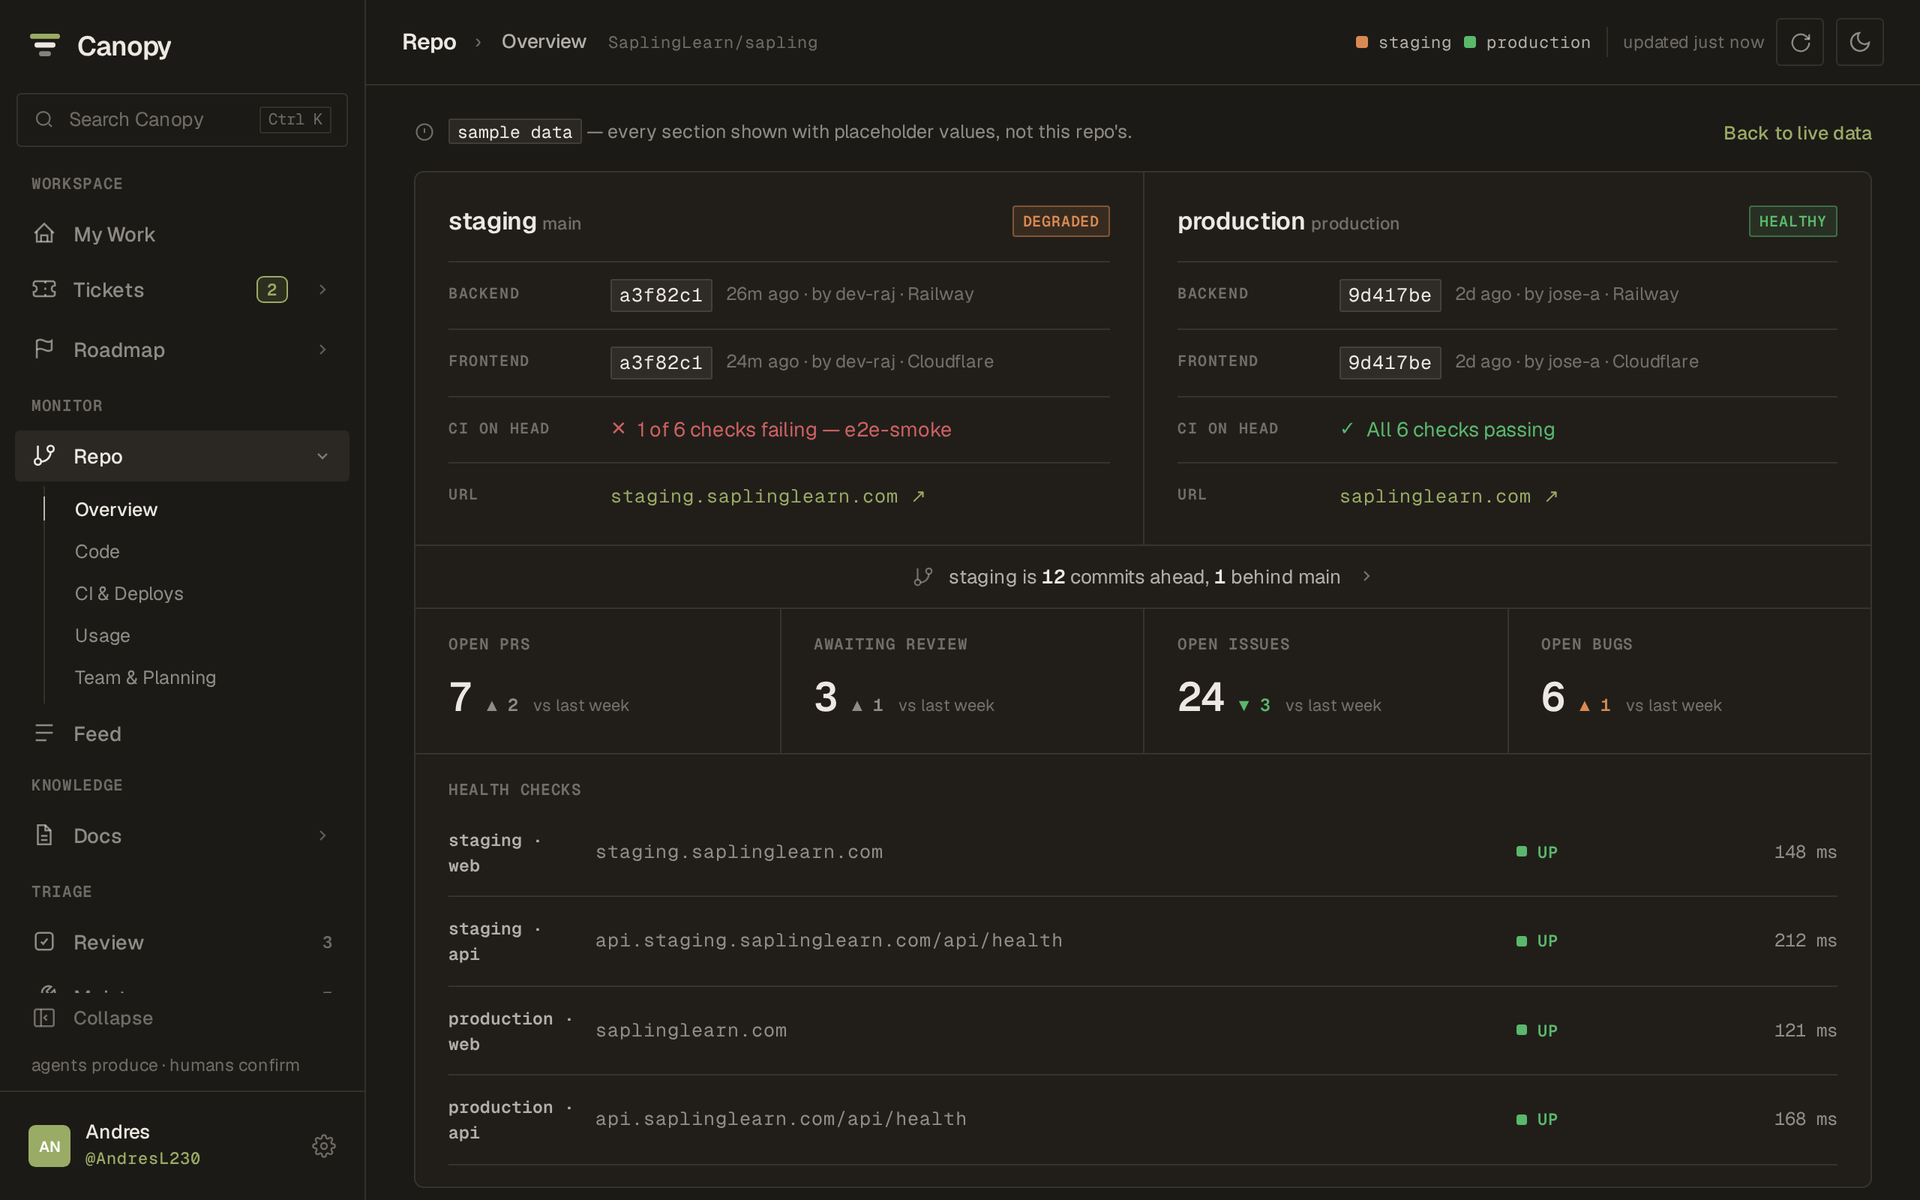
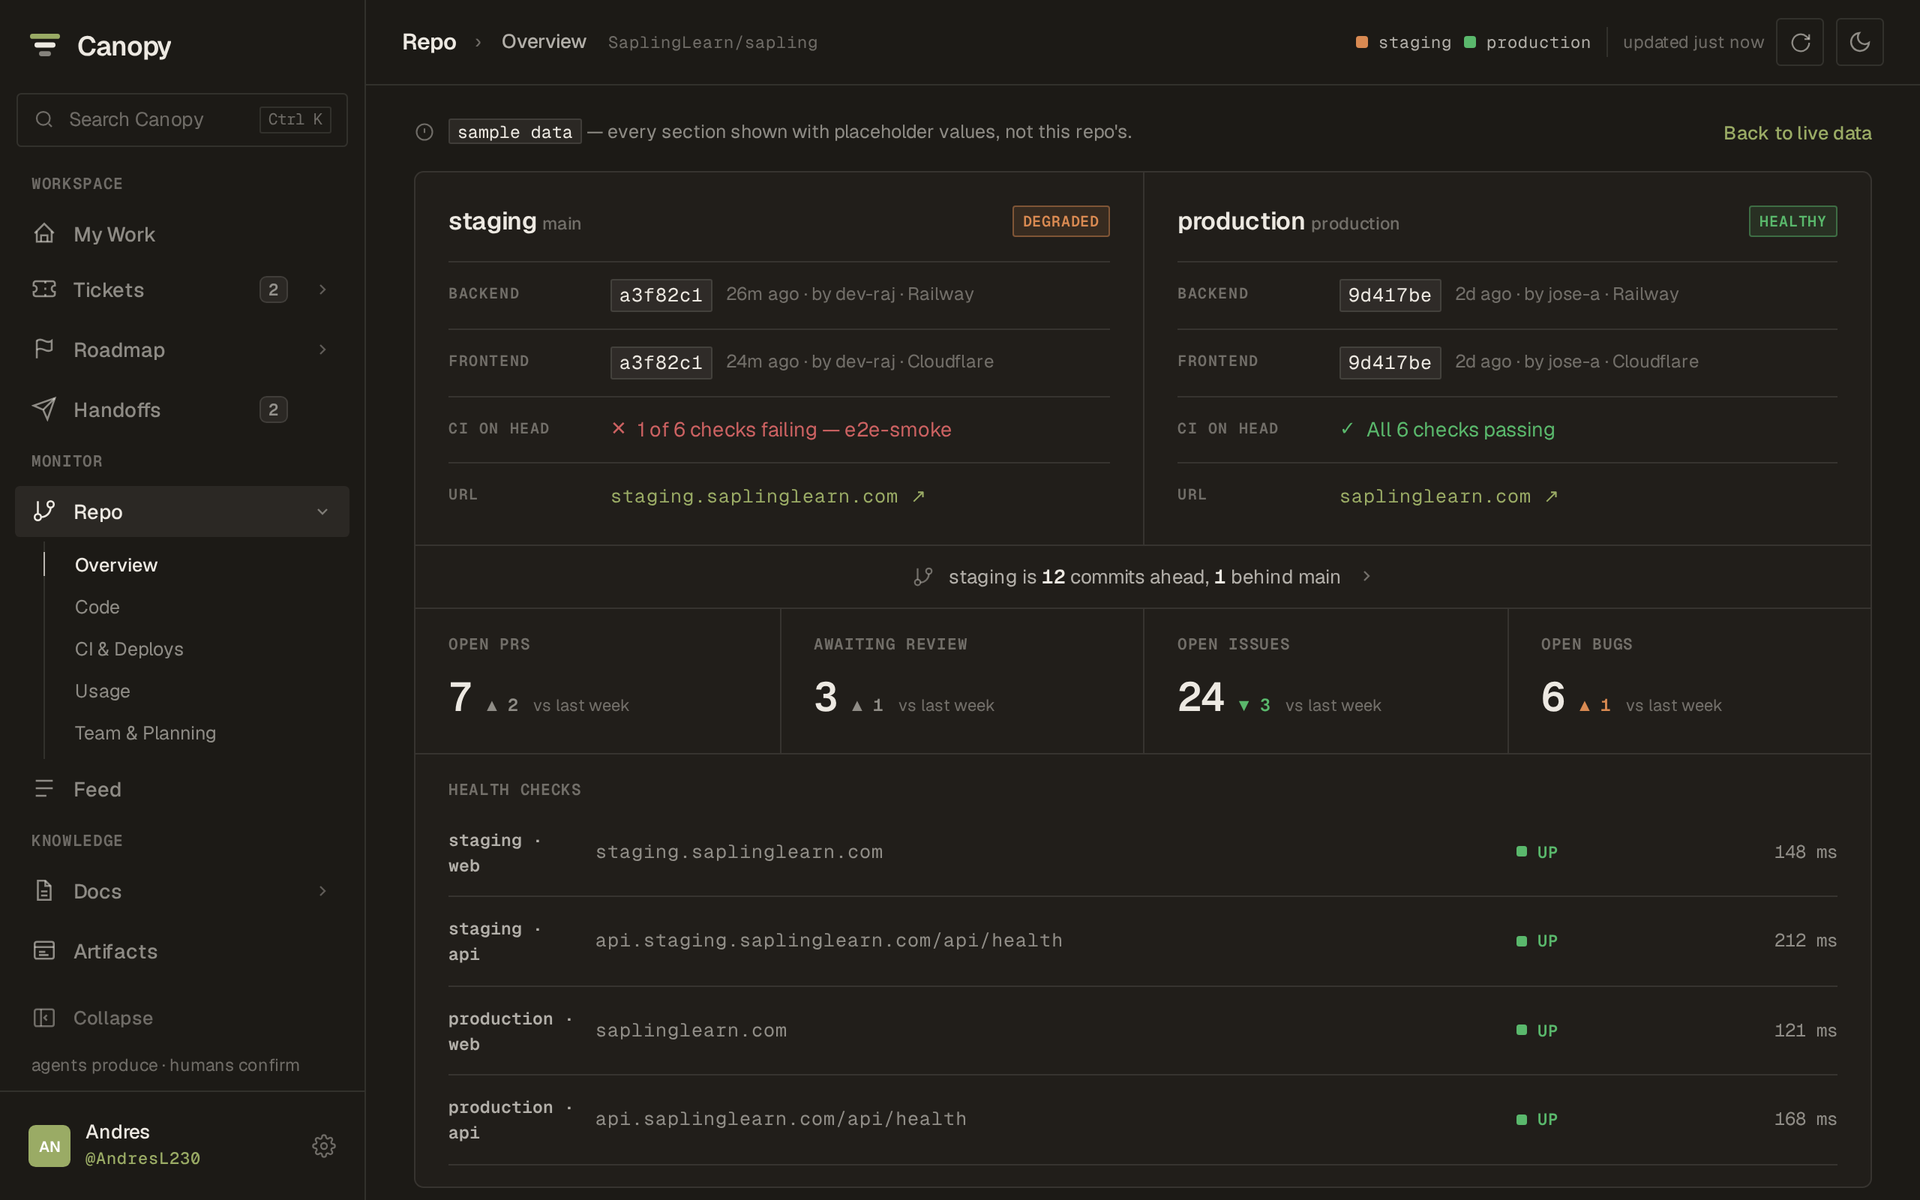
Canopy entry: handoffs, artifacts, R2, current counts
Adds the features that shipped since the last refresh (session handoffs,
versioned artifacts), R2 in the stack, the gate claim narrowed to what it
covers, current commit and test counts, and a refreshed gallery with an
artifact in place of the search shot (whose caption overstated what
people see).

diff --git a/src/data/projects.ts b/src/data/projects.ts
@@ -66,28 +66,28 @@ export const projects: Project[] = [
     year: '2026',
     award: null,
     tagline: 'Agents can write to the team memory. Only a human can publish it.',
-    desc: 'Shared memory for a team building with coding agents: docs, tickets, roadmap, and repo health in one Cloudflare Worker.',
+    desc: 'Shared memory for a team building with coding agents: docs, tickets, handoffs, artifacts, and repo health in one Cloudflare Worker.',
     img: '/images/canopy.png',
     cover: '/images/canopy.png',
     gallery: [
       { src: '/images/canopy_repo.png', caption: 'Canopy · repo dashboard (sample data)' },
       { src: '/images/canopy_sprint.png', caption: 'Canopy · a sprint and its tickets' },
       { src: '/images/canopy_review.png', caption: 'Canopy · an agent’s staged edit awaiting review' },
-      { src: '/images/canopy_search.png', caption: 'Canopy · search, every hit flagged live or staged' },
+      { src: '/images/canopy_artifact.png', caption: 'Canopy · a versioned artifact, ratified by a person' },
     ],
-    tech: ['TypeScript', 'Cloudflare Workers', 'D1', 'Hono', 'Model Context Protocol', 'SQLite FTS5'],
+    tech: ['TypeScript', 'Cloudflare Workers', 'D1', 'R2', 'Hono', 'Model Context Protocol'],
     url: 'https://github.com/SaplingLearn/canopy',
     live: 'https://canopy.saplinglearn.com',
-    role: 'solo · 479 of 496 commits',
+    role: 'solo · 513 of 530 commits',
     problem:
       'Every agent session started from zero, re-deriving decisions buried in old PRs. Letting agents write to a shared store fixes that, but nothing an LLM writes should publish unreviewed.',
     solution:
-      'Canopy is that store. Agents read and propose over MCP; every write lands staged until a human approves it. Around it: a ticket queue, sprints, a roadmap, and a repo dashboard.',
+      'Canopy is that store. Agents read and propose over MCP; every write lands staged until a human approves it. Around it: tickets and sprints, session handoffs, versioned artifacts, and a repo dashboard.',
     deepDive: [
-      'One Worker serves the API, an MCP endpoint, a GitHub webhook, and the SPA. D1 is the only datastore.',
-      'Every agent write passes one gate: a replay ledger, content-hash dedupe, and a line diff that types each change. Approving is never an MCP tool.',
+      'One Worker serves the API, a stateless MCP endpoint on the official SDK, a GitHub webhook, and the SPA. D1 holds the data, R2 the artifact files.',
+      'Every agent-proposed doc and decision passes one gate: a replay ledger, content-hash dedupe, and a line diff that types each change. Approving is never an MCP tool.',
       'Agents can only touch tickets their person is assigned to. Nothing is closed automatically; a person decides.',
-      'The repo dashboard reads only captured data, never GitHub at render, and shows "not connected" instead of a guessed zero. 1,750 tests run against real D1.',
+      'The repo dashboard reads only captured data, never GitHub at render, and shows "not connected" instead of a guessed zero. Over 2,000 tests run against real D1.',
     ],
   },
   {
